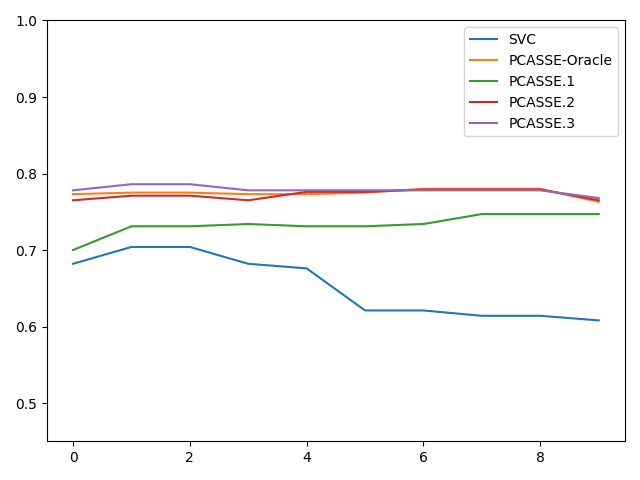
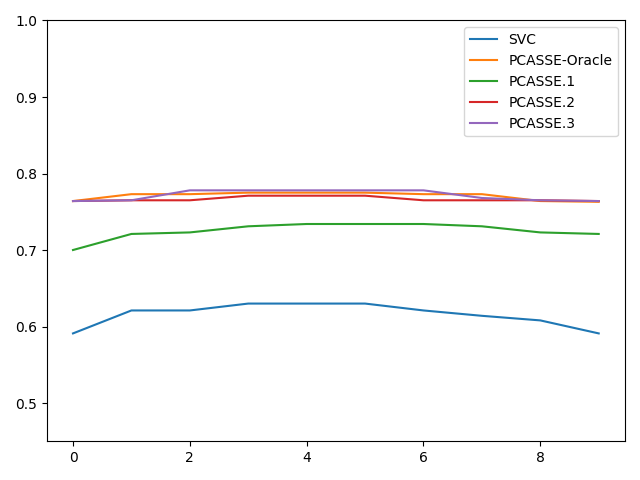
Results

diff --git a/plot.py b/plot.py
@@ -23,7 +23,7 @@ dup = list(range(500, 3500, 500))
 for i, clf in enumerate(clfs):
     print(scores[:,i])
 
-    plt.plot(medfilt(scores[:,i],5), label=clf)
+    plt.plot(medfilt(scores[:,i],11), label=clf)
 plt.legend()
 plt.ylim(.45,1)
 plt.tight_layout()
